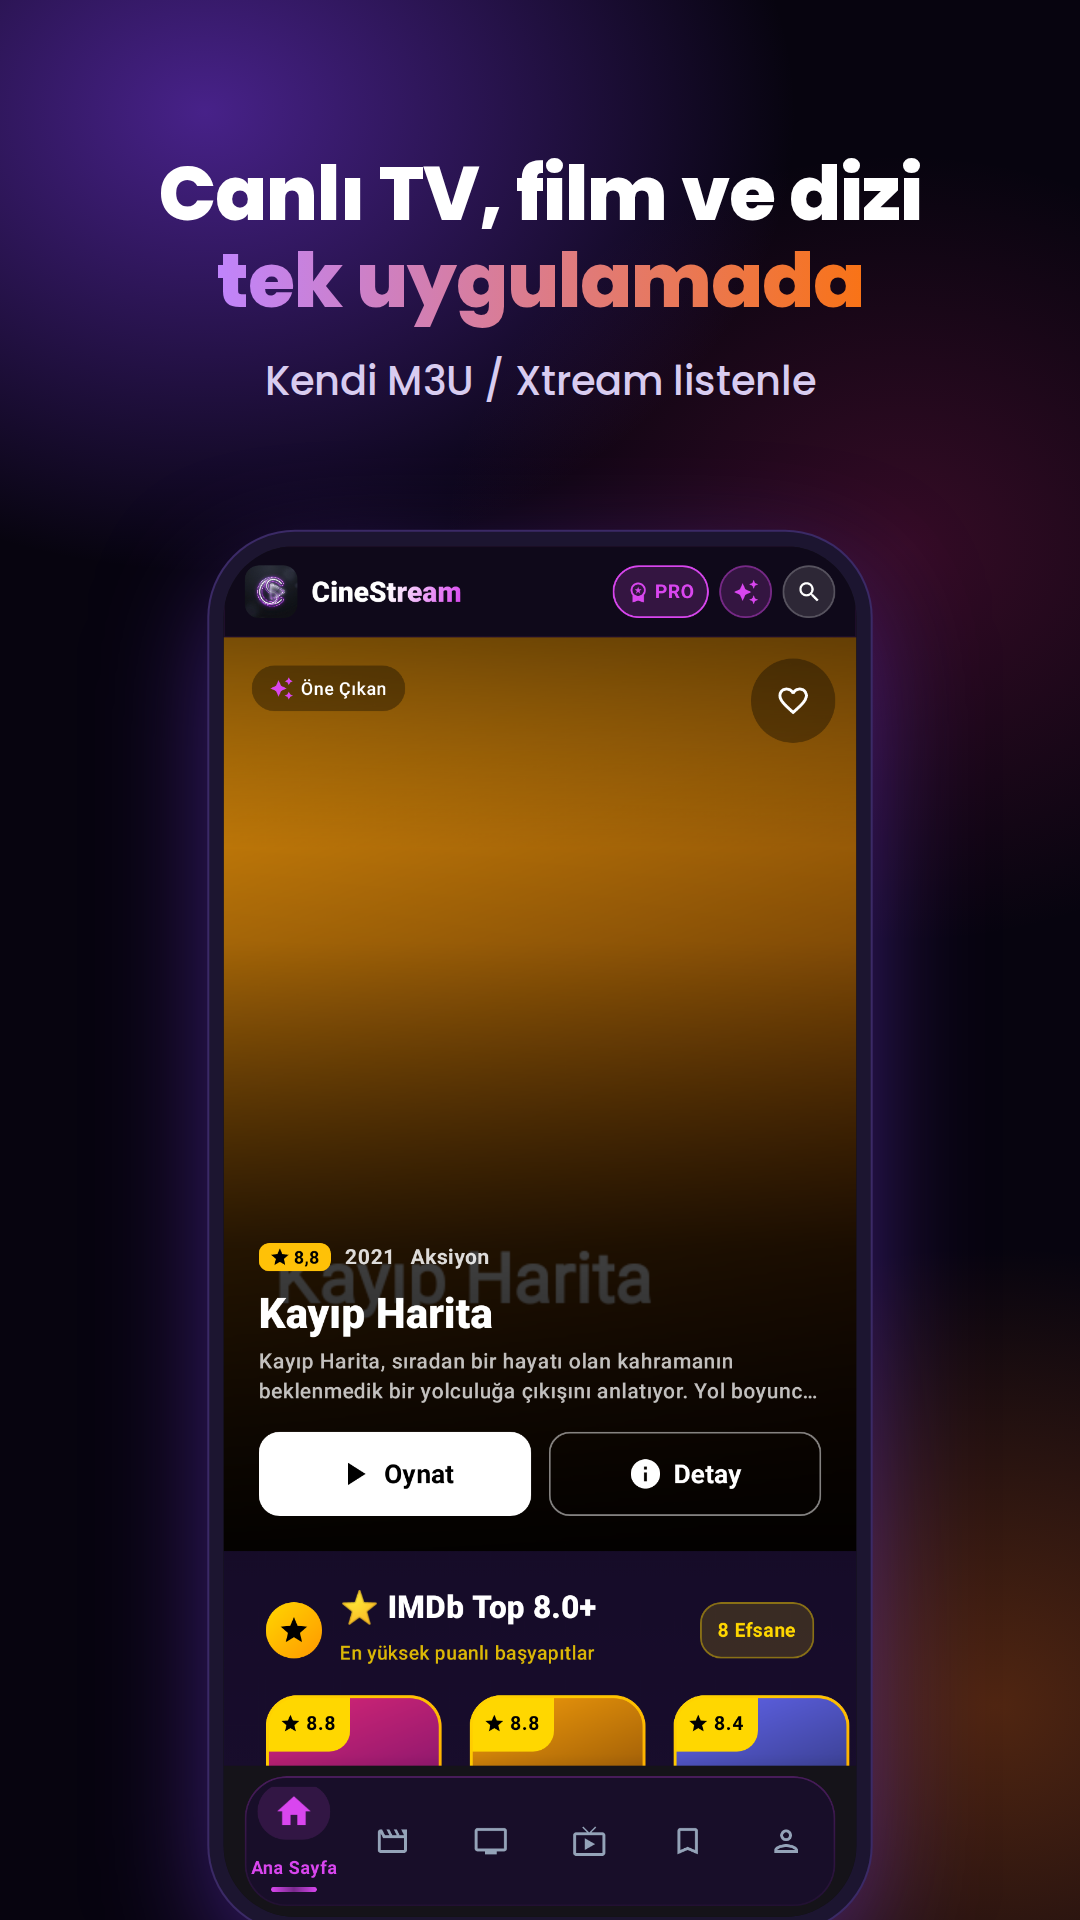
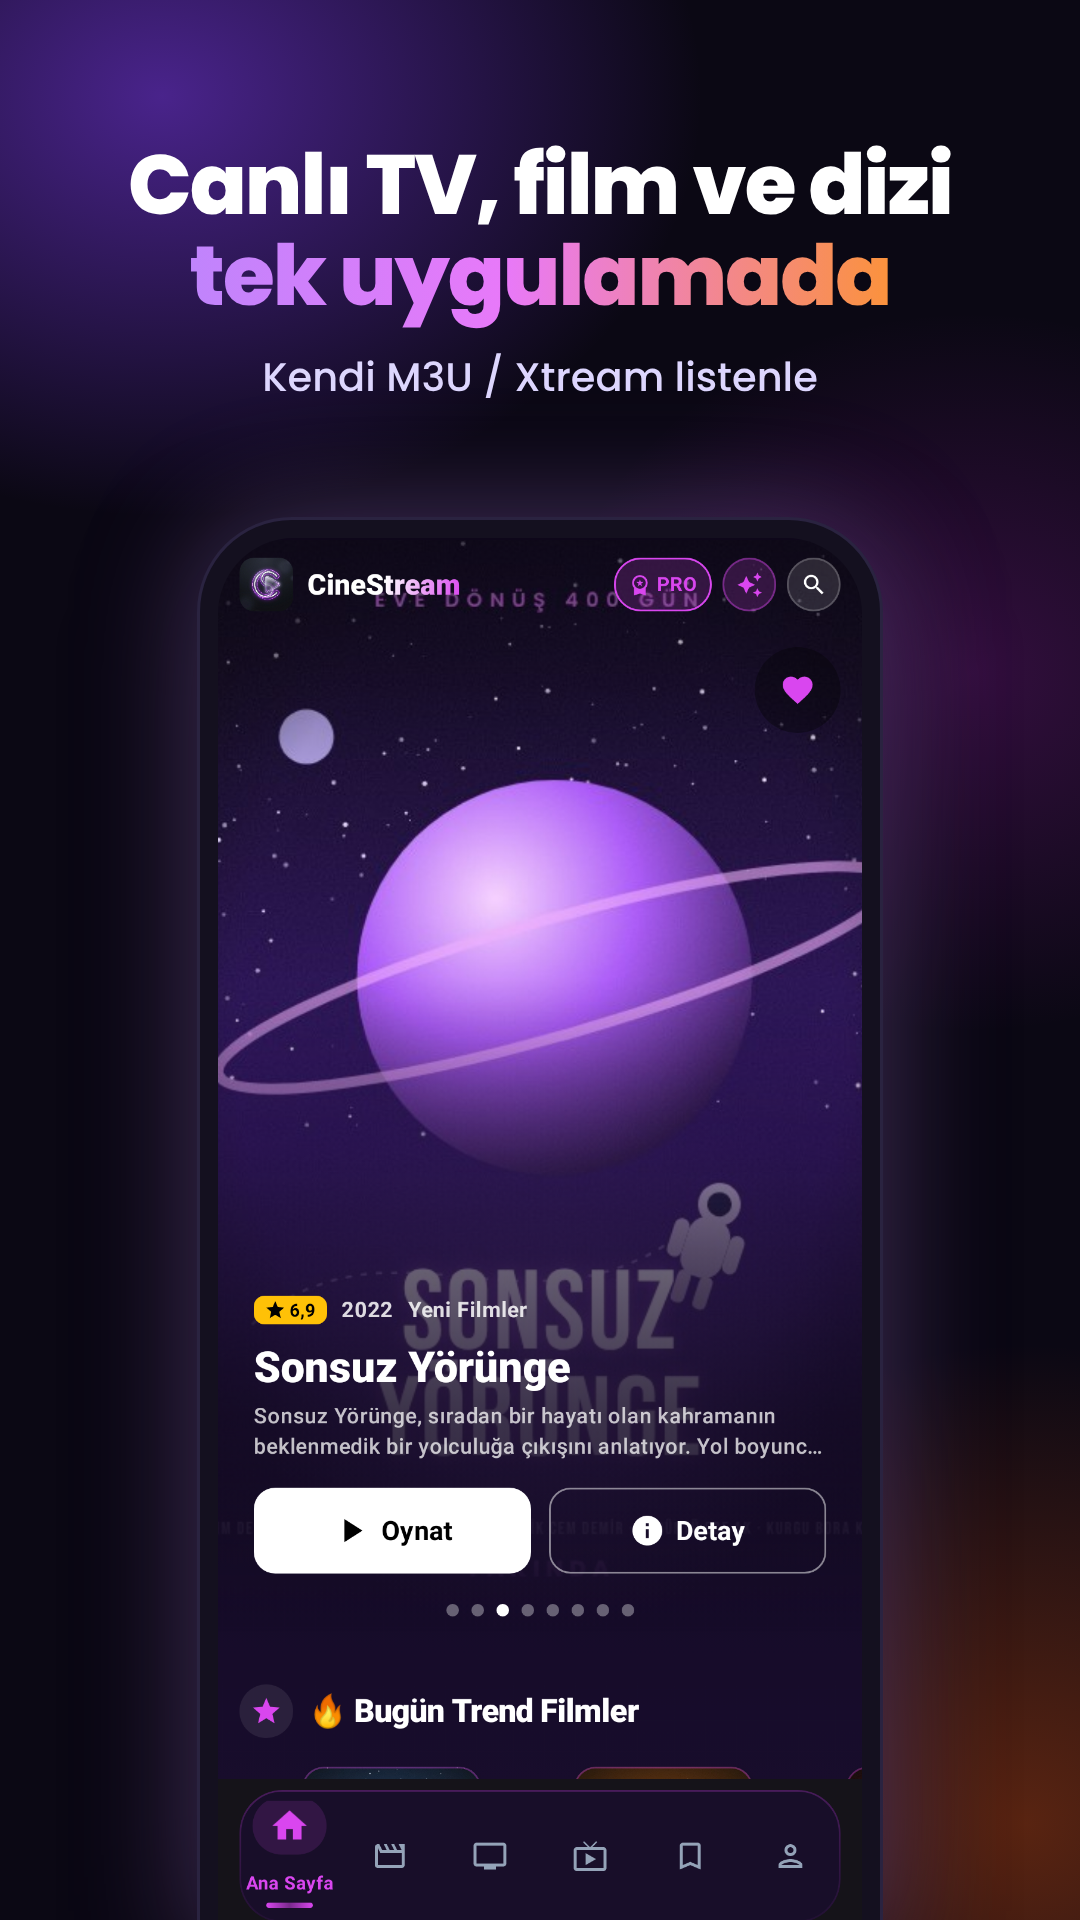
Mağaza görselleri yenilendi: hayali afiş ve kanallarla canlı ekranlar
- Telefon: 8 görsel (açılış ve kapanışta hayali afiş duvarı; ana sayfa, film detayı, film klasörleri,
  canlı kanallar, yapay zekâ asistanı, TV modu). Yetişkin klasörü kesildi.
- TV: uygulamanın değiştirilmemiş 6 ekranı (Play TV-G4); banner aynı.
- Gerçek film, kanal, marka, logo ya da kişi yok; çekimde internet kapalı (TMDB gerçek görsel çekmesin).
- uret.sh tek komutla yeniden üretir; Play Console rehberi güncellendi.

Claude-Session: https://claude.ai/code/session_0157pJE1Cia1MkpcLz8Wd6Qe

diff --git a/play-store/play-console-rehberi.md b/play-store/play-console-rehberi.md
@@ -9,8 +9,8 @@ Bu rehber, uygulamayı Google Play'e ilk kez yüklerken Play Console'un sorduğu
 | Uygulama paketi | CineStream-1.0.aab | İmzalı AAB |
 | Uygulama simgesi | uygulama-simgesi-512.png | 512×512, 32 bit PNG |
 | Öne çıkan görsel | one-cikan-gorsel-1024x500.jpg | 1024×500, JPG veya 24 bit PNG |
-| Telefon ekran görüntüleri | telefon/01…07 (7 adet) | 2–8 adet, 9:16 |
-| Android TV ekran görüntüleri | tv/02, 03, 06, 08, 10 (5 adet) | En az 1, 16:9 |
+| Telefon ekran görüntüleri | telefon/01…08 (8 adet) | 2–8 adet, 9:16 |
+| Android TV ekran görüntüleri | tv/02, 03, 04, 06, 08, 09 (6 adet) | En az 1, 16:9 |
 | Android TV banner'ı | tv/tv-banner-1280x720.png | 1280×720 |
 | Mağaza metinleri | magaza-metinleri.md | Ad, kısa ve tam açıklama |
 | İncelemeci için deneme listesi | demo-playlist.m3u (depoda) | Uygulama erişimi talimatı |
@@ -34,9 +34,9 @@ Bu rehber, uygulamayı Google Play'e ilk kez yüklerken Play Console'un sorduğu
 - İngilizce eklemek istersen: **Çeviri ekle > English (United States) – en-US**, İngilizce metinleri yapıştır.
 - Uygulama simgesi: `uygulama-simgesi-512.png`
 - Öne çıkan görsel: `one-cikan-gorsel-1024x500.jpg`
-- Telefon ekran görüntüleri: `telefon` klasöründeki 7 görsel (sırasıyla).
+- Telefon ekran görüntüleri: `telefon` klasöründeki 8 görsel (sırasıyla). Üretimi: `gorseller/uret/uret.sh`.
 - Tablet ekran görüntüleri: isteğe bağlı; boş bırakabilirsin.
-- Android TV: banner olarak `tv-banner-1280x720.png`, ekran görüntüleri olarak `tv` klasöründeki 5 görsel.
+- Android TV: banner olarak `tv-banner-1280x720.png`, ekran görüntüleri olarak `tv` klasöründeki 6 görsel (uygulamanın değiştirilmemiş TV ekranları).
 
 **Mağaza ayarları**
 

diff --git a/play-store/gorseller/uret/README.md b/play-store/gorseller/uret/README.md
@@ -1,0 +1,13 @@
+# Mağaza görselleri üretimi
+
+`./uret.sh` hepsini baştan üretir (~25 dk; Robolectric ilk turda dosya indirir).
+
+- `afis-uretici.html` + `afisleri-ciz.js`: kodla çizilen **hayali** film/dizi afişleri ve kanal logoları
+  (`app/src/test/resources/promo/`). Gerçek film, kanal, marka, logo ya da kişi yoktur.
+- Ekranlar uygulamanın gerçek kodundan çekilir (`PhonePromoShotsTest`, `TvShowcaseTest`; `PromoArt.kt` hayali görselleri verir).
+  Çekim sırasında **internet kapalıdır**: aksi halde uygulama TMDB'den gerçek film görselleri (gerçek kişiler) çekiyor.
+- `cerceve.html`: telefon görsellerinin başlık + telefon/TV çerçevesi; açılış ve kapanışta hayali afiş duvarı.
+- Canlı Yayın ekranındaki yetişkin klasörü kesilir; TV görselleri değiştirilmeden kullanılır (Play TV-G4).
+
+Kurallar: gerçek kanal adı (beIN, D-Smart vb.), platform adı (Netflix, Amazon vb.), telifli afiş, kulüp/marka logosu,
+ünlü yüz ve "binlerce kanal" gibi hazır içerik vaadi kullanılmaz. "Kendi M3U / Xtream listenle" notu kalır.
